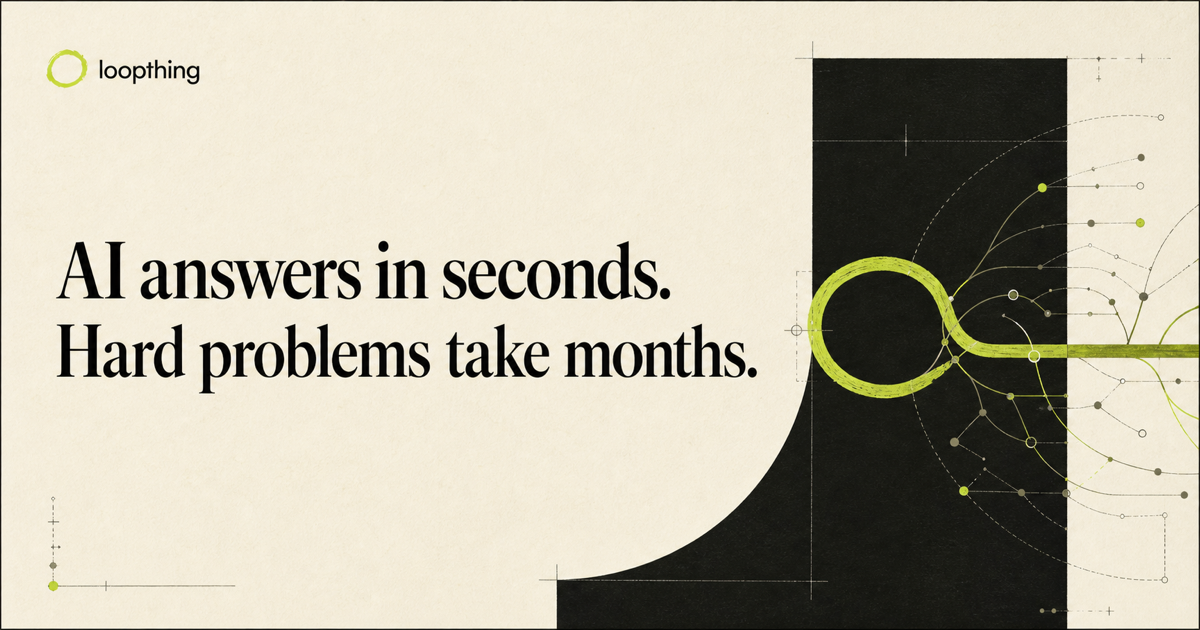
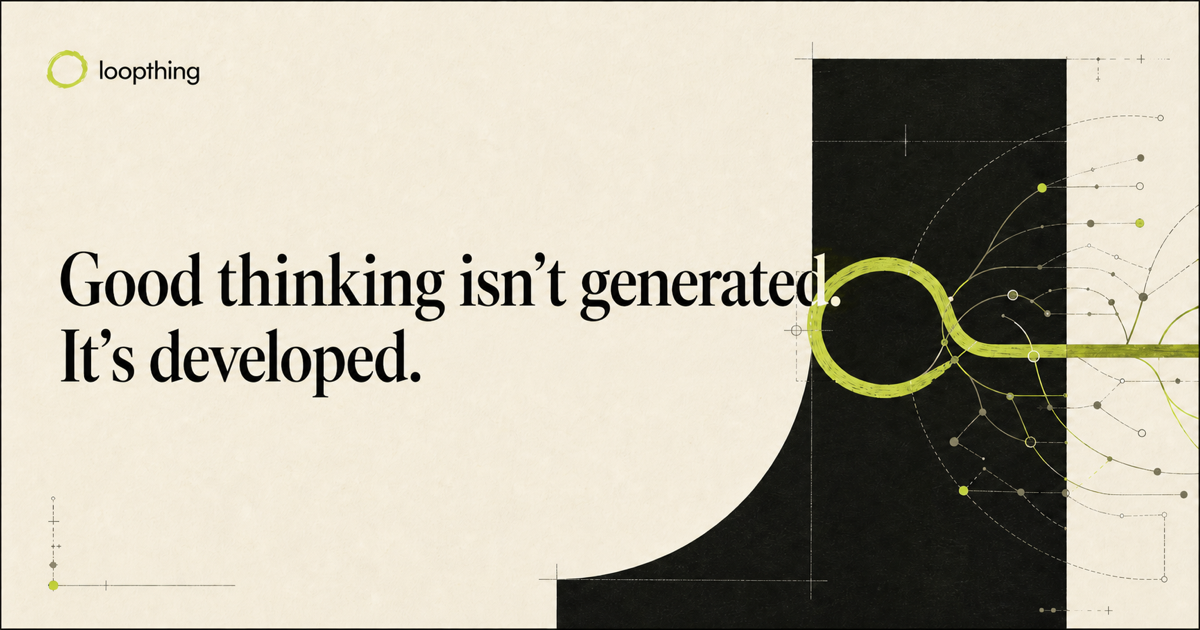
Position Loop Thing around developed thinking

diff --git a/app/page.tsx b/app/page.tsx
@@ -86,32 +86,31 @@ export default function Home() {
             Continuous thinking. Asynchronous work.
           </p>
           <h1 className="max-w-6xl text-[clamp(3.5rem,8.7vw,8rem)] font-medium leading-[0.86] tracking-[-0.078em]">
-            AI answers in seconds.
+            Good thinking isn’t generated.
             <br />
-            Hard problems take{" "}
             <span className="font-serif italic text-[var(--signal-strong)]">
-              months.
+              It’s developed.
             </span>
           </h1>
           <div className="mt-10 grid max-w-6xl gap-8 border-l border-foreground/20 pl-6 sm:pl-8 lg:grid-cols-[1fr_auto] lg:items-end">
             <div>
               <p className="max-w-3xl text-lg leading-8 text-muted-foreground sm:text-xl">
                 <strong className="font-semibold text-foreground">
-                  Loop Thing is a continuous-thinking document for hard
-                  problems.
+                  Loop Thing is an async workflow for deep thinking and
+                  research.
                 </strong>{" "}
-                It keeps working between meetings—connecting evidence,
-                assumptions, decisions, alternatives, contradictions, and open
-                questions as new facts arrive.
+                Add notes, sources, questions, and early ideas as you go. It
+                connects new material to what came before and helps your thesis
+                develop over days, weeks, or months.
               </p>
               <p className="mt-4 text-sm font-medium text-foreground/75">
-                For decisions too important to leave in a chat history.
+                Drop notes. Build the thesis. Keep the thread.
               </p>
             </div>
             <div className="flex flex-wrap gap-3">
               <Button asChild size="lg" className="rounded-full px-6">
                 <Link href="/login">
-                  Work the problem
+                  Start a project
                   <ArrowRight />
                 </Link>
               </Button>

diff --git a/app/layout.tsx b/app/layout.tsx
@@ -21,15 +21,15 @@ export const metadata: Metadata = {
     process.env.NEXT_PUBLIC_SITE_URL || "https://loopthing.ai",
   ),
   title: {
-    default: "Loop Thing — Hard problems take months",
+    default: "Loop Thing — Good thinking is developed",
     template: "%s · Loop Thing",
   },
   description:
-    "A continuous-thinking document for hard problems. It keeps working between meetings as new facts arrive.",
+    "An async workflow for deep thinking and research that helps your thesis develop over time.",
   openGraph: {
-    title: "Loop Thing — Hard problems take months",
+    title: "Good thinking isn't generated. It's developed.",
     description:
-      "AI answers in seconds. Loop Thing stays with the problems that take months.",
+      "Loop Thing is an async workflow for deep thinking and research.",
     url: "/",
     siteName: "Loop Thing",
     type: "website",
@@ -37,9 +37,9 @@ export const metadata: Metadata = {
   },
   twitter: {
     card: "summary_large_image",
-    title: "Loop Thing — Hard problems take months",
+    title: "Good thinking isn't generated. It's developed.",
     description:
-      "AI answers in seconds. Loop Thing stays with the problems that take months.",
+      "Loop Thing is an async workflow for deep thinking and research.",
     images: ["/og.png"],
   },
 };
